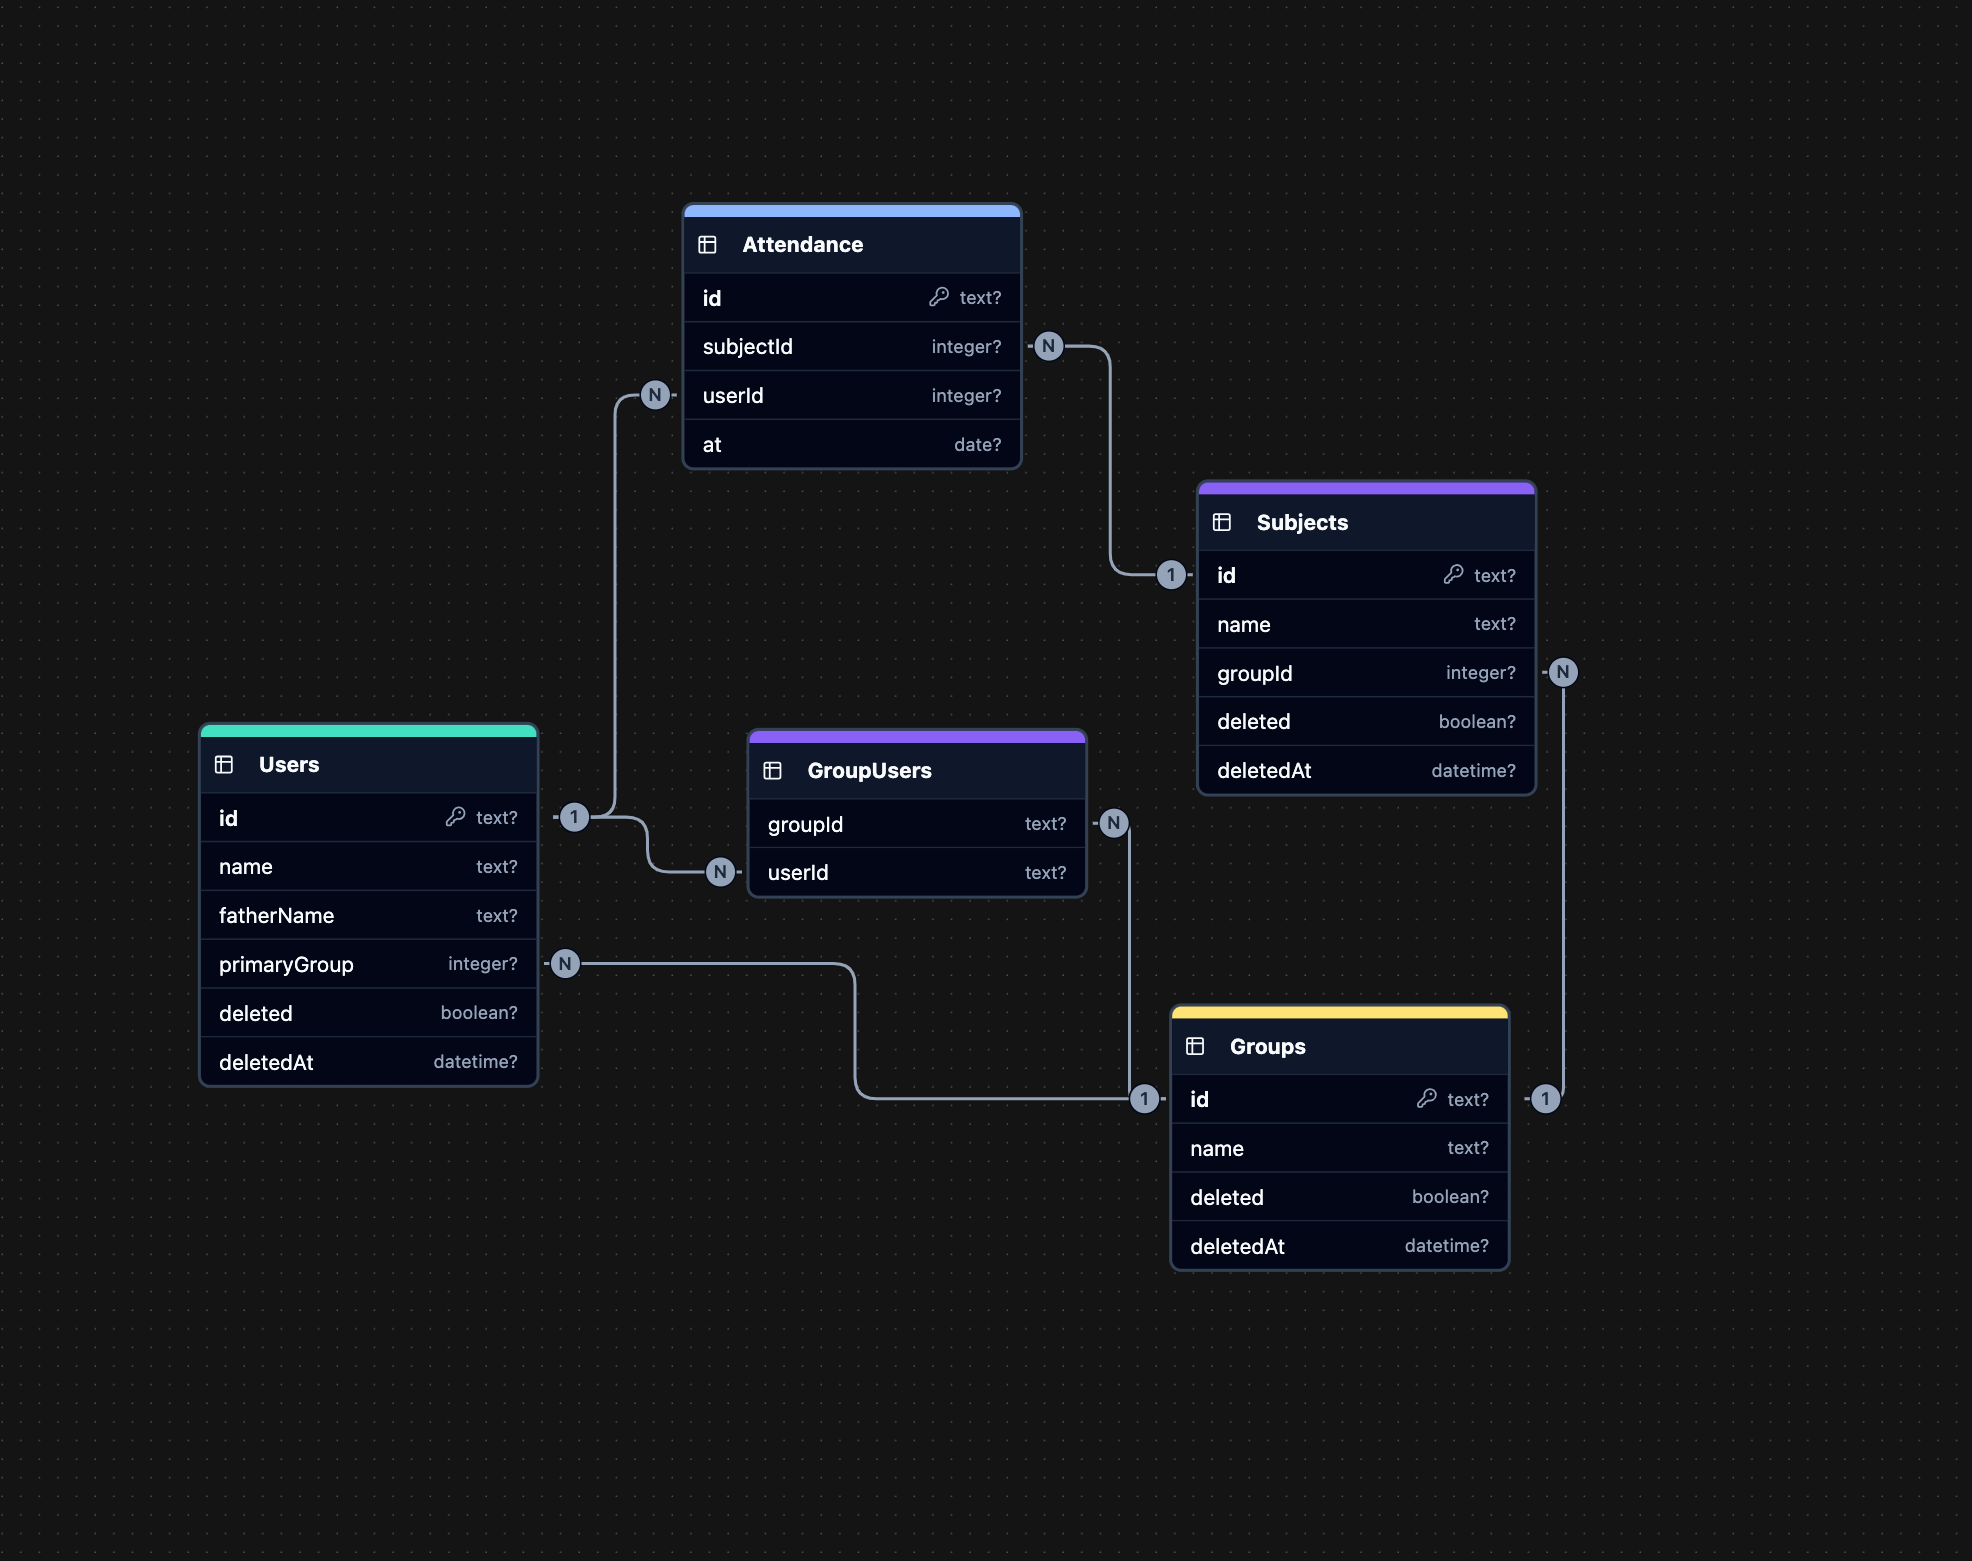
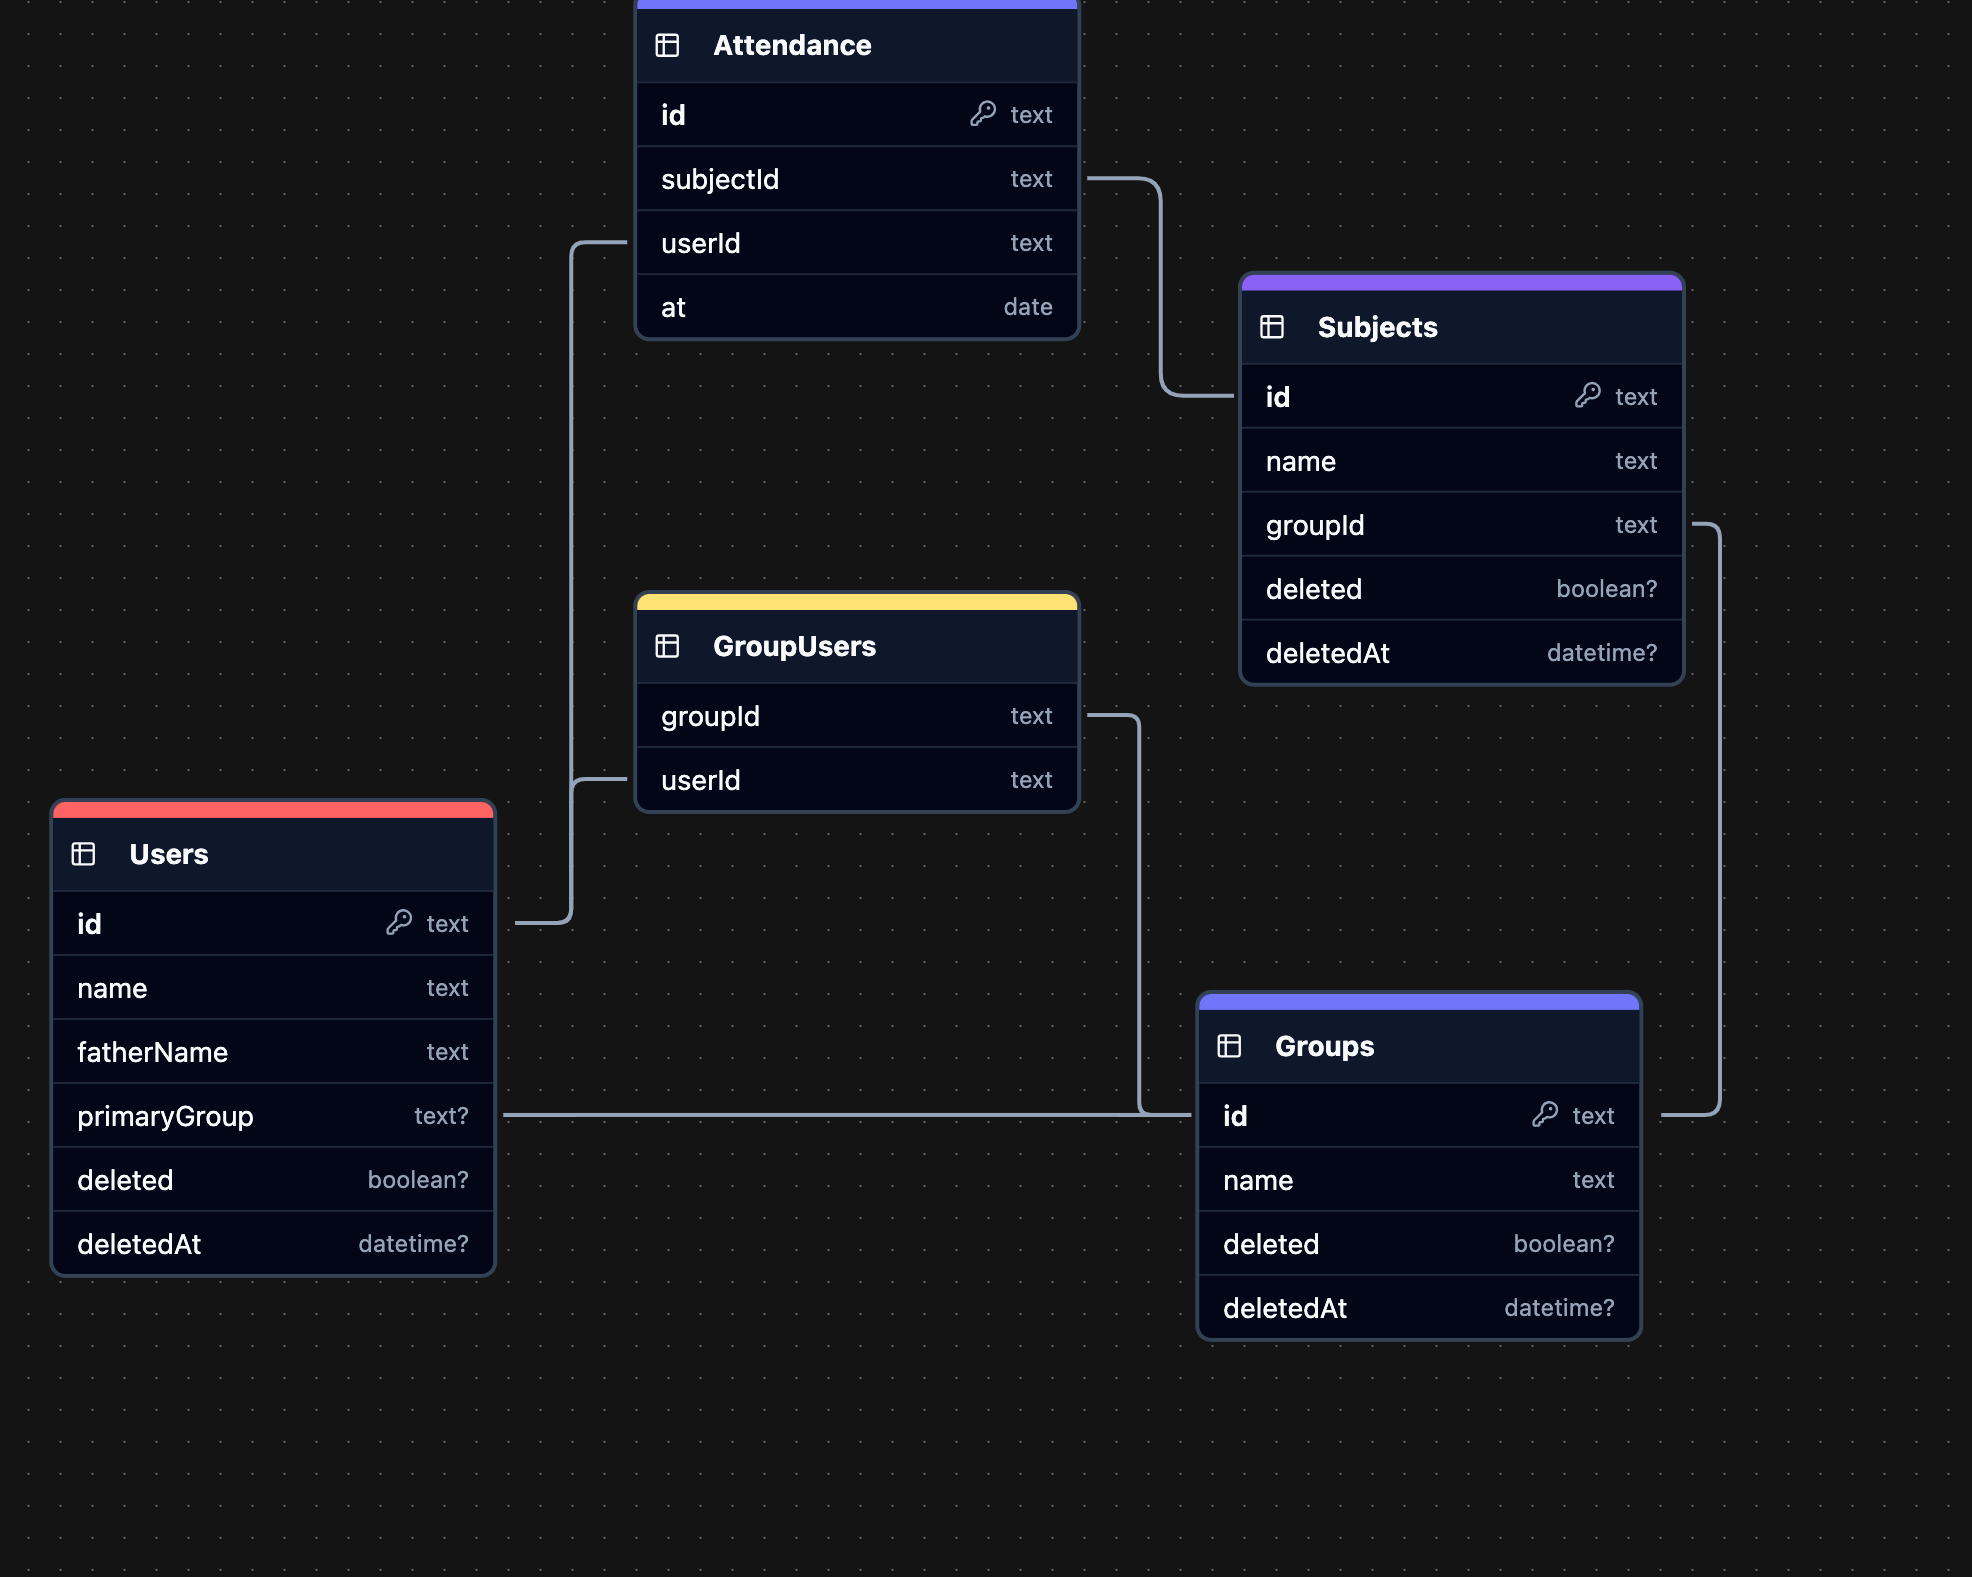
docs(readme): enhance readme with detailed usage instructions
- add "About" section to introduce the Attendance Tracker app
- provide step-by-step guide on basic navigation and attendance taking
- explain how groups affect attendance tracking
- update database diagram

Changed region(s): [[0.0309, 0.369, 0.8352, 0.861], [0.5568, 0.1537, 0.8661, 0.5227], [0.2784, 0.0, 0.5877, 0.3075]]

diff --git a/README.md b/README.md
@@ -1,6 +1,10 @@
 # Attendance Tracker
 
-Simpler Flutter application to track atttendance with some awosome features
+A Flutter application designed to simplify attendance tracking with QR code integration and comprehensive reporting features.
+
+## About
+
+Attendance Tracker is an open-source Flutter application designed for educational institutions to simplify attendance management. The app follows a hierarchical structure with groups, subjects, and students, allowing for flexible organization.
 
 ## Features
 - Linear group management system
@@ -12,15 +16,61 @@ Simpler Flutter application to track atttendance with some awosome features
 - Database import/export capabilities
 - Bulk operation support
 
-A Flutter application designed to simplify attendance tracking with QR code integration and comprehensive reporting features.
-
 ## Screenshot
 
 ![](images/screenshot.png)
 
-## Datbase Diagram
+## Database Diagram
 
 ![](images/sqlite-db.png)
+
+## How to Use
+
+### Basic Navigation
+1. **Home Screen**: Access groups, subjects, students, and quick actions
+2. **Groups**: Create and manage student groups
+3. **Subjects**: Create subjects and track attendance for each
+4. **Students**: Add students individually or import from Excel
+
+### Taking Attendance in Detail
+
+#### Understanding Key Terms
+- **Group**: A collection of students (e.g., a class, department, or section)
+- **Subject**: A course or class associated with a specific group
+- **Attendance Session**: A record of student presence for a specific subject on a particular date
+
+#### Methods for Taking Attendance
+
+##### 1. QR Code Scanner Method
+1. Navigate to a subject from the subjects list
+2. Tap "Take Attendance with QR" option
+3. The camera will open with a QR scanner
+4. Students show their ID cards or QR codes (generated from the app)
+5. When scanned:
+   - The student name appears on screen
+   - Toggle "Auto Save" to automatically record attendance when scanning
+   - Without Auto Save, you can review scanned students and save in bulk
+
+##### 2. Manual Attendance Method
+1. Navigate to a subject
+2. Tap "View Attendance"
+3. You'll see a list of all students in the associated group
+4. To mark attendance:
+   - For individual students: Tap the menu (three dots) next to a student name and select "Add Attendance"
+   - For multiple students: Enable selection mode, select students, and use the floating action button to mark attendance
+5. Select the date for the attendance record
+
+#### How Groups Affect Attendance
+- Each subject is associated with a primary group
+- Students can belong to multiple groups (primary and secondary)
+- When taking attendance for a subject:
+  - All students from the subject's primary group are available
+  - Students from other groups who have been added to this group are also available
+  - The app filters the student list based on group membership
+- When viewing attendance reports:
+  - You can filter by specific groups to see attendance for subsets of students
+  - This allows for tracking attendance across different organizational structures
+
 
 ## Getting Started
 
